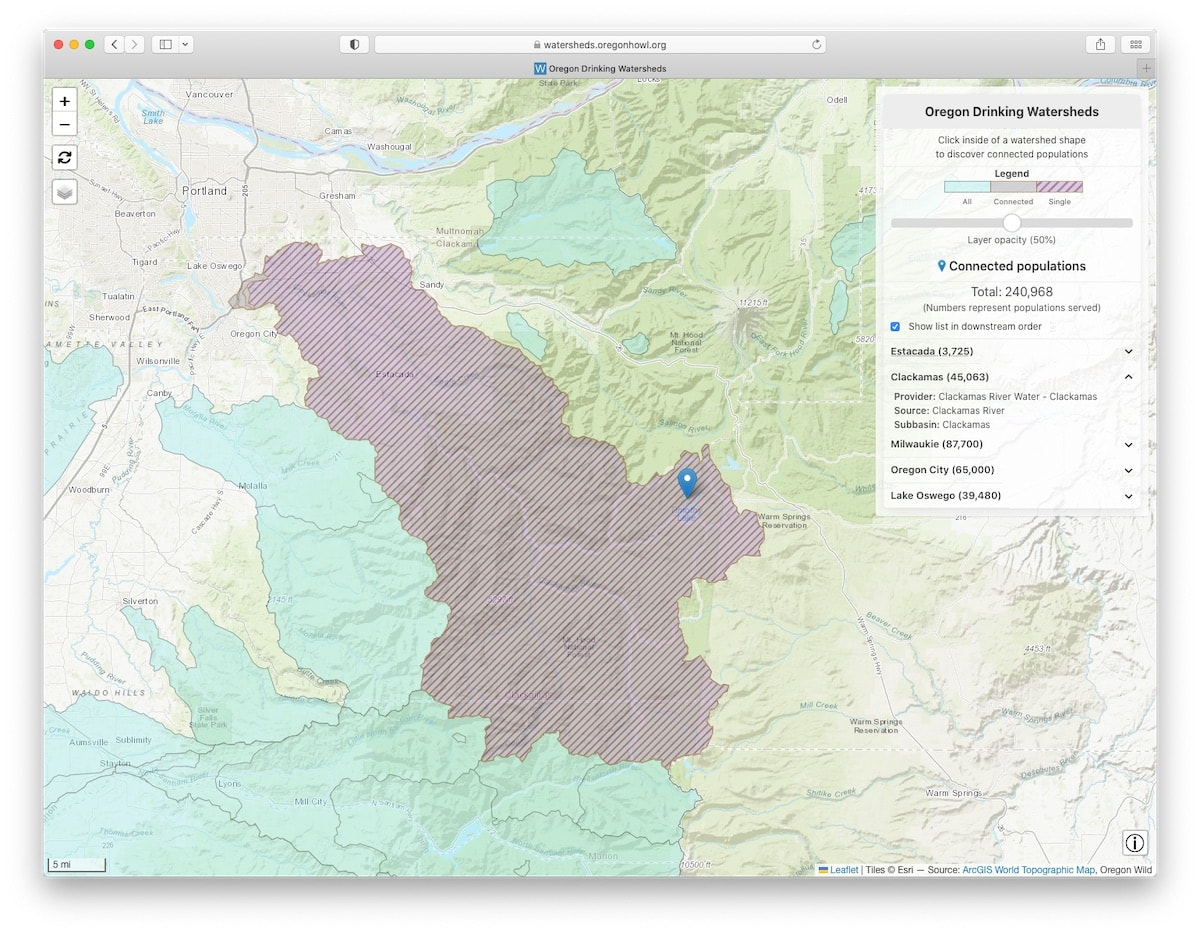
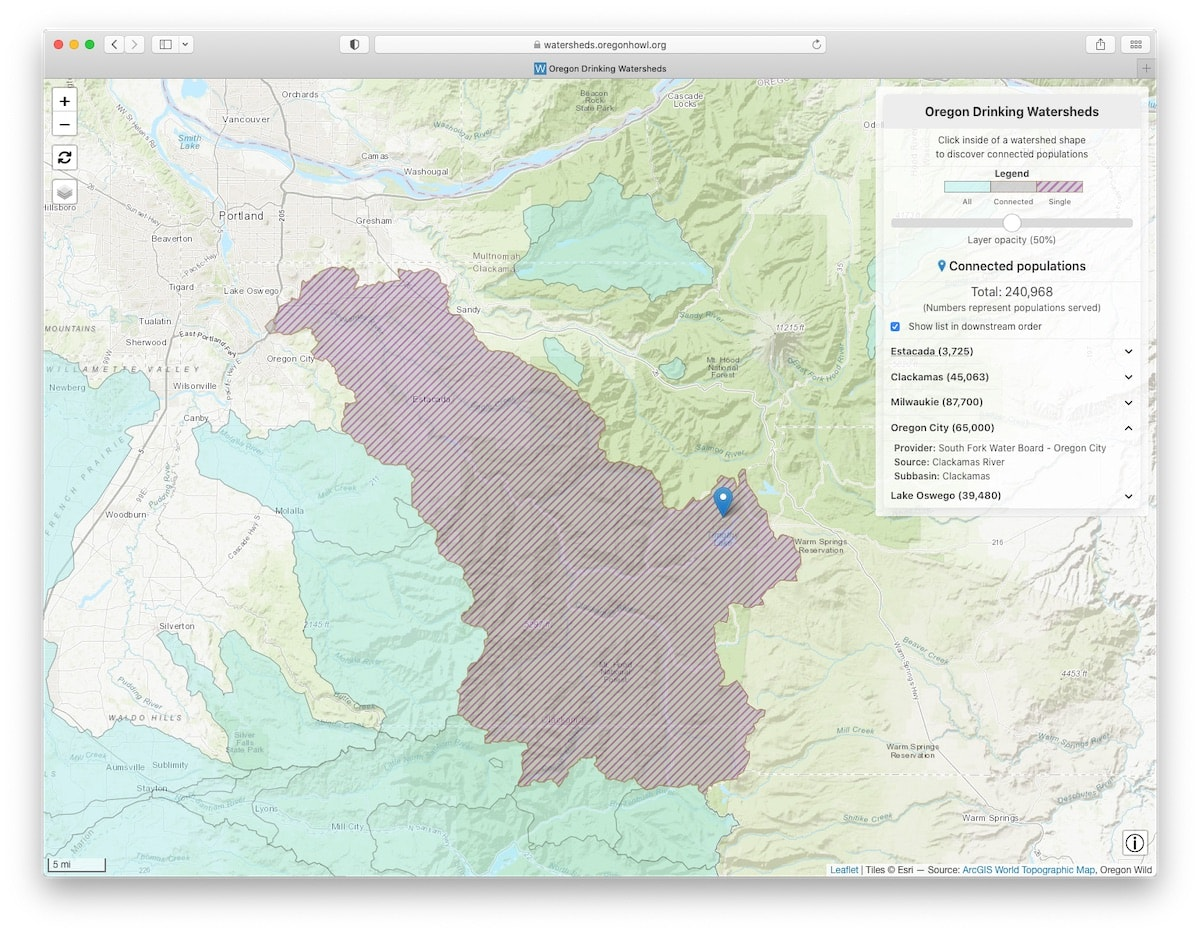
Incorporate feedback

diff --git a/content/post/2022-10-21-oregon-watersheds.md b/content/post/2022-10-21-oregon-watersheds.md
@@ -10,13 +10,18 @@ date: 2022-10-21T00:00:00.000Z
 
 That is the question [Oregon Wild](https://oregonwild.org/) wants to be able to answer at a moment's notice, and that's the subject of my latest volunteer project.
 
-[Oregon Wild](https://oregonwild.org/) needs the data and a tool, to help understand the full extent of Oregon's drinking watersheds and how are populations connected to any given Oregon location through common watersheds.
+[Oregon Wild](https://oregonwild.org/) needs the data and a tool, to help understand the full extent of Oregon's drinking watersheds and which populations are connected to any given Oregon location through common watersheds.
 
 <!--more-->
 
 ### Data analysis and a web application
 
-The project had two parts. First, we followed a rigorous and tricky analysis process using multiple data sources to generate a GIS dataset. Second, we created a web application that could be used by anyone to easily view Oregon's drinking watersheds and discover how populations and communities are interconnected through them.
+The project had two parts. Our starting point was the surface drinking watersheds Geographical Information Systems (GIS) dataset [published](https://www.oregon.gov/deq/wq/programs/pages/dwp-maps.aspx) by the [Oregon Department of Environmental Quality (DEQ)](https://www.oregon.gov/deq/pages/index.aspx).
+
+First, we followed a rigorous and tricky analysis process using multiple data sources to generate a new enhanced GIS dataset that fully
+maps each watershed and incorporates population data.
+
+Second, we created a web application that could be used by anyone to easily view Oregon's drinking watersheds and discover how populations and communities are interconnected through them.
 
 On this post, I introduce the web application: how to access it, how to use it, and how we built it. On an upcoming post, I will describe the process that we went through to compile and assemble the underlying data.
 
@@ -40,7 +45,7 @@ You will see a web map centered in Oregon, with a turquoise polygon layer, repre
 
 Click on a spot within any of the turquoise polygons. In the example below we show that the picked spot near Timothy Lake, connects 240,968 people through the water flow in the Clackamas River watershed. The watershed path is highlighted in gray on the map.
 
-A disturbance near that particular spot could potentially affect the drinking water quality of Estacada, Clackamas, Milwaukie, Oregon City and Lake Oswego!
+Logging, road building, or other disturbance near that particular spot could negatively affect the drinking water quality of Estacada, Clackamas, Milwaukie, Oregon City and Lake Oswego!
 
 <p align="center">
 	<img src="/images/uploads/oregon-watersheds-spot.jpg"/>
@@ -48,7 +53,7 @@ A disturbance near that particular spot could potentially affect the drinking wa
 
 By default, the list of communities shown in the information box is sorted in descending population order. But it can also be shown in "downstream" order by clicking on the checkbox. By the way, the application will remember your selection the next time you come back (if you are using the same browser).
 
-Clicking on the community name or the associated down arrow, displays more details about the water system for that community: Provider, Source, and Subbasin. At the same time, the application highlights the entire watershed for that community using a purple stripe pattern. In the example below, we are looking at Clackamas.
+Clicking on the community name or the associated down arrow, displays more details about the water system for that community: Provider, Source, and Subbasin. At the same time, the application highlights the entire watershed for that community using a purple stripe pattern. In the example below, we are looking at Oregon City.
 
 <p align="center">
 	<img src="/images/uploads/oregon-watersheds-detail.jpg"/>
